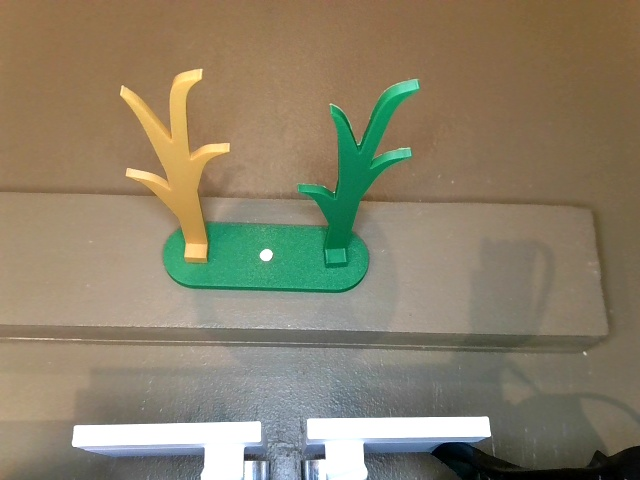
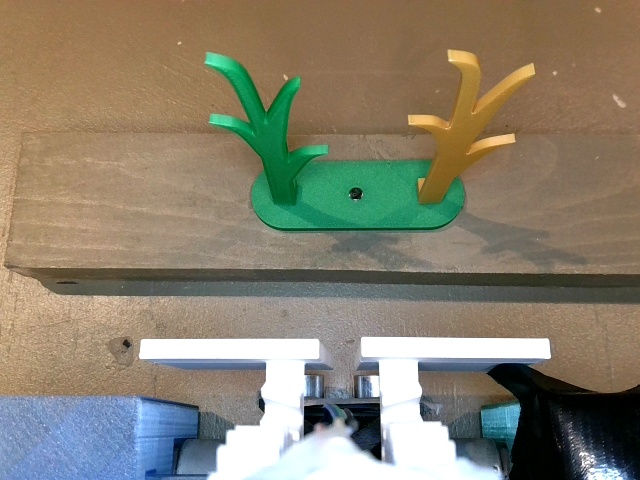
calibration identification task

diff --git a/identification_logic_26/identification_logic_26/camera_processing.py b/identification_logic_26/identification_logic_26/camera_processing.py
@@ -14,7 +14,7 @@ CAMERA_INDEX = "/dev/v4l/by-id/usb-XZC-260109-A_Streaming_Webcam_Audio_01.00.00-
 FRAME_RATE = 5
 
 MIN_AREA = 2500 # from 5000 to 3000
-HEIGHT_THRESHOLD = 125 # from 150 to 125
+HEIGHT_THRESHOLD = 100 # from 150 to 125
 SHOW_PREVIEW = True
 
 